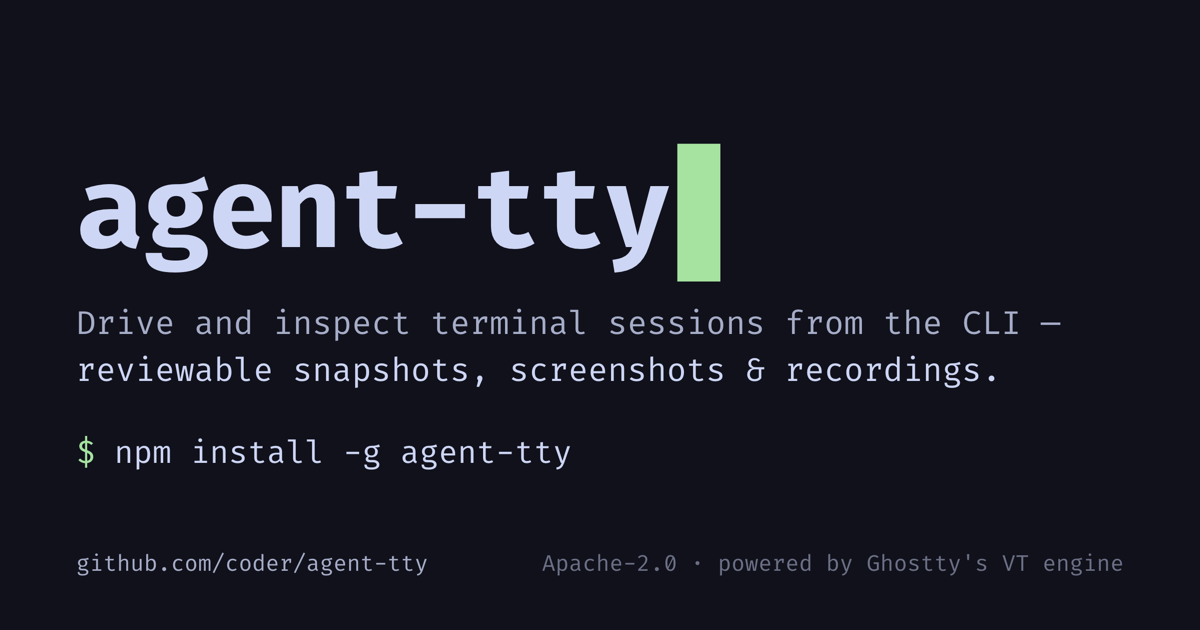
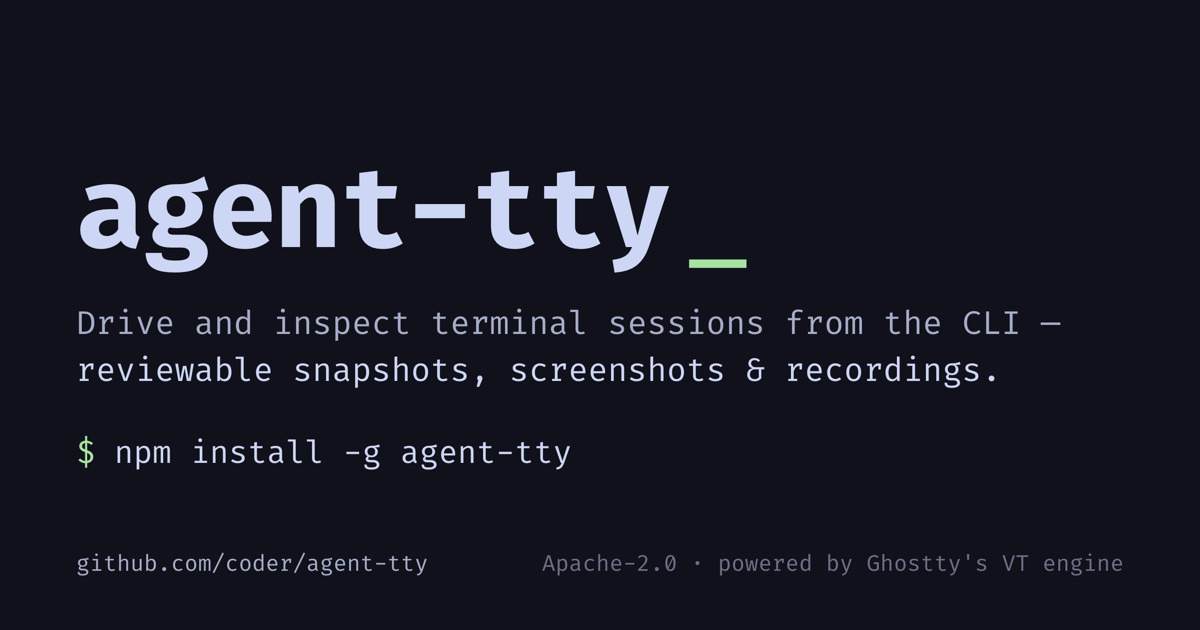
docs(assets): swap social-preview block cursor for a low underscore
Review feedback: the block cursor (▋) read as too heavy. Replace it with a
low green underscore (`_`) plus a small gap, and re-render the 1200x630 card.

Changed region(s): [[0.555, 0.2111, 0.6167, 0.4524]]

diff --git a/assets/social-preview.html b/assets/social-preview.html
@@ -49,10 +49,11 @@
         line-height: 1;
         color: var(--text);
       }
+      /* underscore cursor: low, with a small gap from the wordmark */
       .word .cursor {
         color: var(--green);
         font-weight: 400;
-        margin-left: 8px;
+        margin-left: 14px;
       }
 
       .tag {
@@ -92,7 +93,7 @@
   </head>
   <body>
     <div class="card">
-      <div class="word">agent-tty<span class="cursor">▋</span></div>
+      <div class="word">agent-tty<span class="cursor">_</span></div>
       <div class="tag">
         Drive and inspect terminal sessions from the CLI —<br />
         <span class="accent"